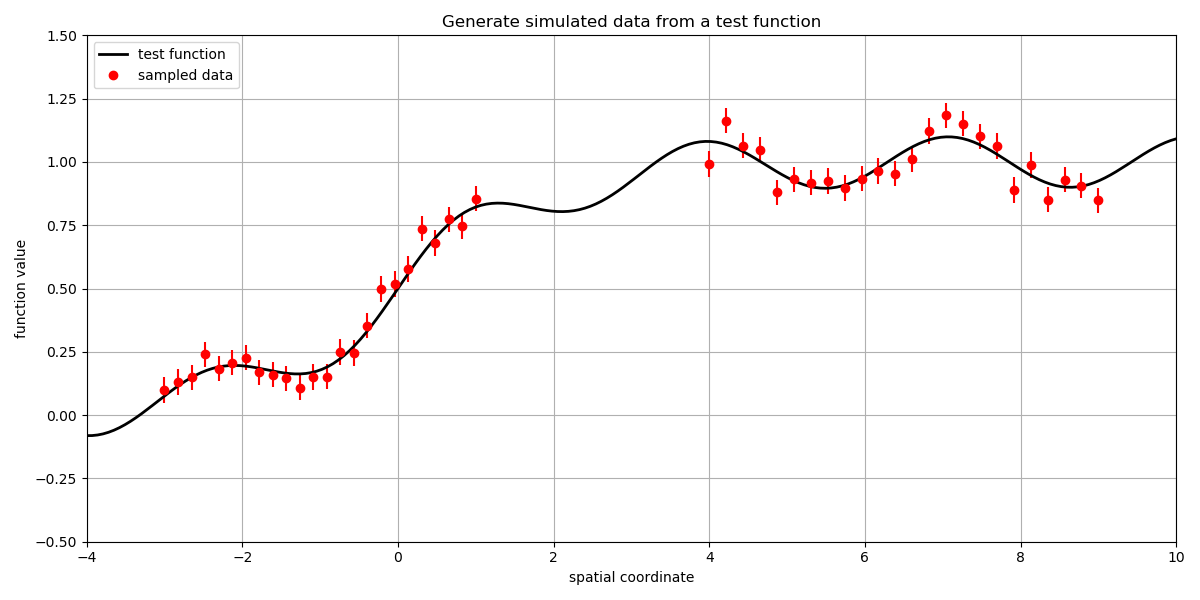
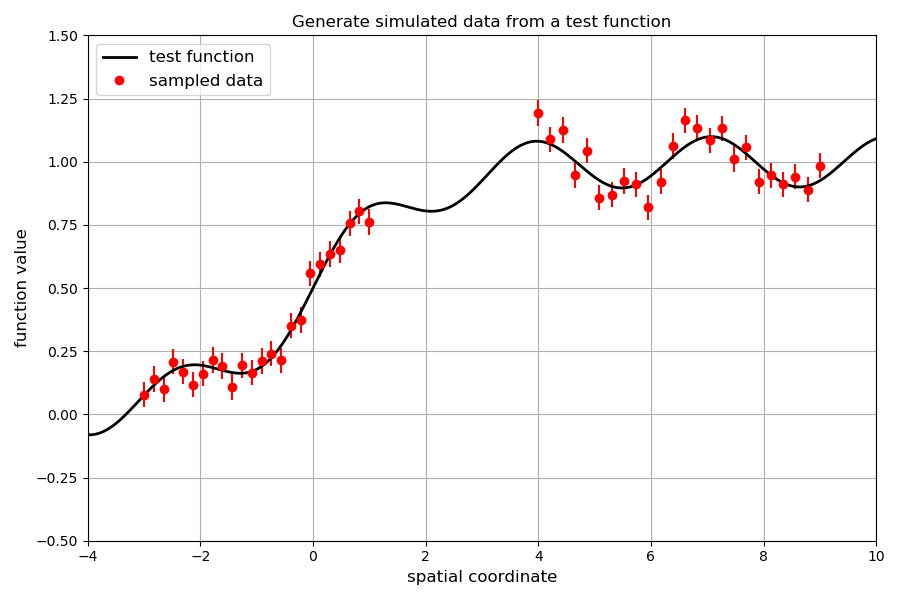
Updated GpRegressor example images

diff --git a/docs/source/images/GpRegressor_images/GpRegressor_image_production.py b/docs/source/images/GpRegressor_images/GpRegressor_image_production.py
@@ -4,8 +4,10 @@ from matplotlib import cm
 from numpy import exp, sin, sqrt
 from numpy import linspace, zeros, array, meshgrid
 from numpy.random import multivariate_normal as mvn
-from numpy.random import normal, random
+from numpy.random import normal, random, seed
 from inference.gp_tools import GpRegressor
+
+seed(4)
 
 """
 Code demonstrating the use of the GpRegressor class found in inference.gp_tools
@@ -31,18 +33,18 @@ errs = zeros(len(y)) + sig # y data errors
 
 # plot the data points plus the underlying function
 # from which they are sampled
-fig = plt.figure( figsize = (12,6) )
+fig = plt.figure( figsize = (9,6) )
 ax = fig.add_subplot(111)
 ax.plot(q, y_c, lw = 2, color = 'black', label = 'test function')
 ax.plot(x, y, 'o', color = 'red', label = 'sampled data')
 ax.errorbar(x, y, yerr = errs, fmt = 'none', ecolor = 'red')
 ax.set_ylim([-0.5, 1.5])
 ax.set_xlim([-4, 10])
-ax.set_title('Generate simulated data from a test function')
-ax.set_ylabel('function value')
-ax.set_xlabel('spatial coordinate')
+ax.set_title('Generate simulated data from a test function', fontsize = 12)
+ax.set_ylabel('function value', fontsize = 12)
+ax.set_xlabel('spatial coordinate', fontsize = 12)
 ax.grid()
-ax.legend(loc=2)
+ax.legend(loc=2, fontsize = 12)
 plt.tight_layout()
 plt.savefig('sampled_data.png')
 plt.close()
@@ -56,7 +58,7 @@ mu_q, sig_q = GP(q)
 
 # now plot the regression estimate and the data together
 c1 = 'red'; c2 = 'blue'; c3 = 'green'
-fig = plt.figure( figsize = (12,6) )
+fig = plt.figure( figsize = (9,6) )
 ax = fig.add_subplot(111)
 ax.plot(q, mu_q, lw = 2, color = c2, label = 'posterior mean')
 ax.fill_between(q, mu_q-sig_q, mu_q-sig_q*2, color = c2, alpha = 0.15, label = r'$\pm 2 \sigma$ interval')
@@ -65,9 +67,9 @@ ax.fill_between(q, mu_q-sig_q, mu_q+sig_q, color = c2, alpha = 0.3, label = r'$\
 ax.plot(x, y, 'o', color = c1, label = 'data', markerfacecolor = 'none', markeredgewidth = 2)
 ax.set_ylim([-0.5, 1.5])
 ax.set_xlim([-4, 10])
-ax.set_title('Prediction using posterior mean and covariance')
-ax.set_ylabel('function value')
-ax.set_xlabel('spatial coordinate')
+ax.set_title('Prediction using posterior mean and covariance', fontsize = 12)
+ax.set_ylabel('function value', fontsize = 12)
+ax.set_xlabel('spatial coordinate', fontsize = 12)
 ax.grid()
 ax.legend(loc=2, fontsize = 12)
 plt.tight_layout()
@@ -83,11 +85,13 @@ mu, sigma = GP.build_posterior(q)
 # now draw samples
 samples = mvn(mu, sigma, 100)
 # and plot all the samples
-fig = plt.figure( figsize = (12,6) )
+fig = plt.figure( figsize = (9,6) )
 ax = fig.add_subplot(111)
 for i in range(100):
     ax.plot(q, samples[i,:], lw = 0.5)
-ax.set_title('100 samples drawn from the posterior distribution')
+ax.set_title('100 samples drawn from the posterior distribution', fontsize = 12)
+ax.set_ylabel('function value', fontsize = 12)
+ax.set_xlabel('spatial coordinate', fontsize = 12)
 ax.set_xlim([-4, 10])
 plt.grid()
 plt.tight_layout()
@@ -103,15 +107,15 @@ gradient_mean, gradient_variance = GP.gradient(q)
 sigma = sqrt(gradient_variance) # get the standard deviation at each point in 'q'
 
 # plot the distribution of the gradient
-fig = plt.figure( figsize = (12,6) )
+fig = plt.figure( figsize = (9,6) )
 ax = fig.add_subplot(111)
 ax.plot(q, gradient_mean, lw = 2, color = 'blue', label = 'gradient mean')
 ax.fill_between(q, gradient_mean-sigma, gradient_mean+sigma, alpha = 0.3, color = 'blue', label = r'$\pm 1 \sigma$ interval')
 ax.fill_between(q, gradient_mean+sigma, gradient_mean+2*sigma, alpha = 0.15, color = 'blue', label = r'$\pm 2 \sigma$ interval')
 ax.fill_between(q, gradient_mean-sigma, gradient_mean-2*sigma, alpha = 0.15, color = 'blue')
-ax.set_title('Distribution of the gradient of the GP')
-ax.set_ylabel('function gradient value')
-ax.set_xlabel('spatial coordinate')
+ax.set_title('Distribution of the gradient of the GP', fontsize = 12)
+ax.set_ylabel('function gradient value', fontsize = 12)
+ax.set_xlabel('spatial coordinate', fontsize = 12)
 ax.set_xlim([-4, 10])
 ax.grid()
 ax.legend(fontsize = 12)

diff --git a/docs/source/GpRegressor.rst b/docs/source/GpRegressor.rst
@@ -7,12 +7,7 @@ GpRegressor
    :members: __call__, gradient, build_posterior
 
 
-Example code
-~~~~~~~~~~~~
-
-"""
-Code demonstrating the use of the GpRegressor class found in inference.gp_tools
-"""
+**Example code**
 
 Create some testing data
 
@@ -96,7 +91,7 @@ Now plot the regression estimate and the data together
 
 As the estimate itself is defined by a multivariate normal distribution, we can draw samples
 from that distribution. To do this, we need to build the full covariance matrix and mean for the
-desired set of points using the 'build_posterior' method:
+desired set of points using the ``build_posterior`` method:
 
 .. code-block:: python
 
@@ -120,7 +115,7 @@ desired set of points using the 'build_posterior' method:
 
 The gradient of the Gaussian process estimate also has a multivariate normal distribution.
 The mean vector and covariance matrix of the gradient distribution for a series of points
-can be generated using the GP.gradient() method:
+can be generated using the ``gradient`` method:
 
 .. code-block:: python
 
